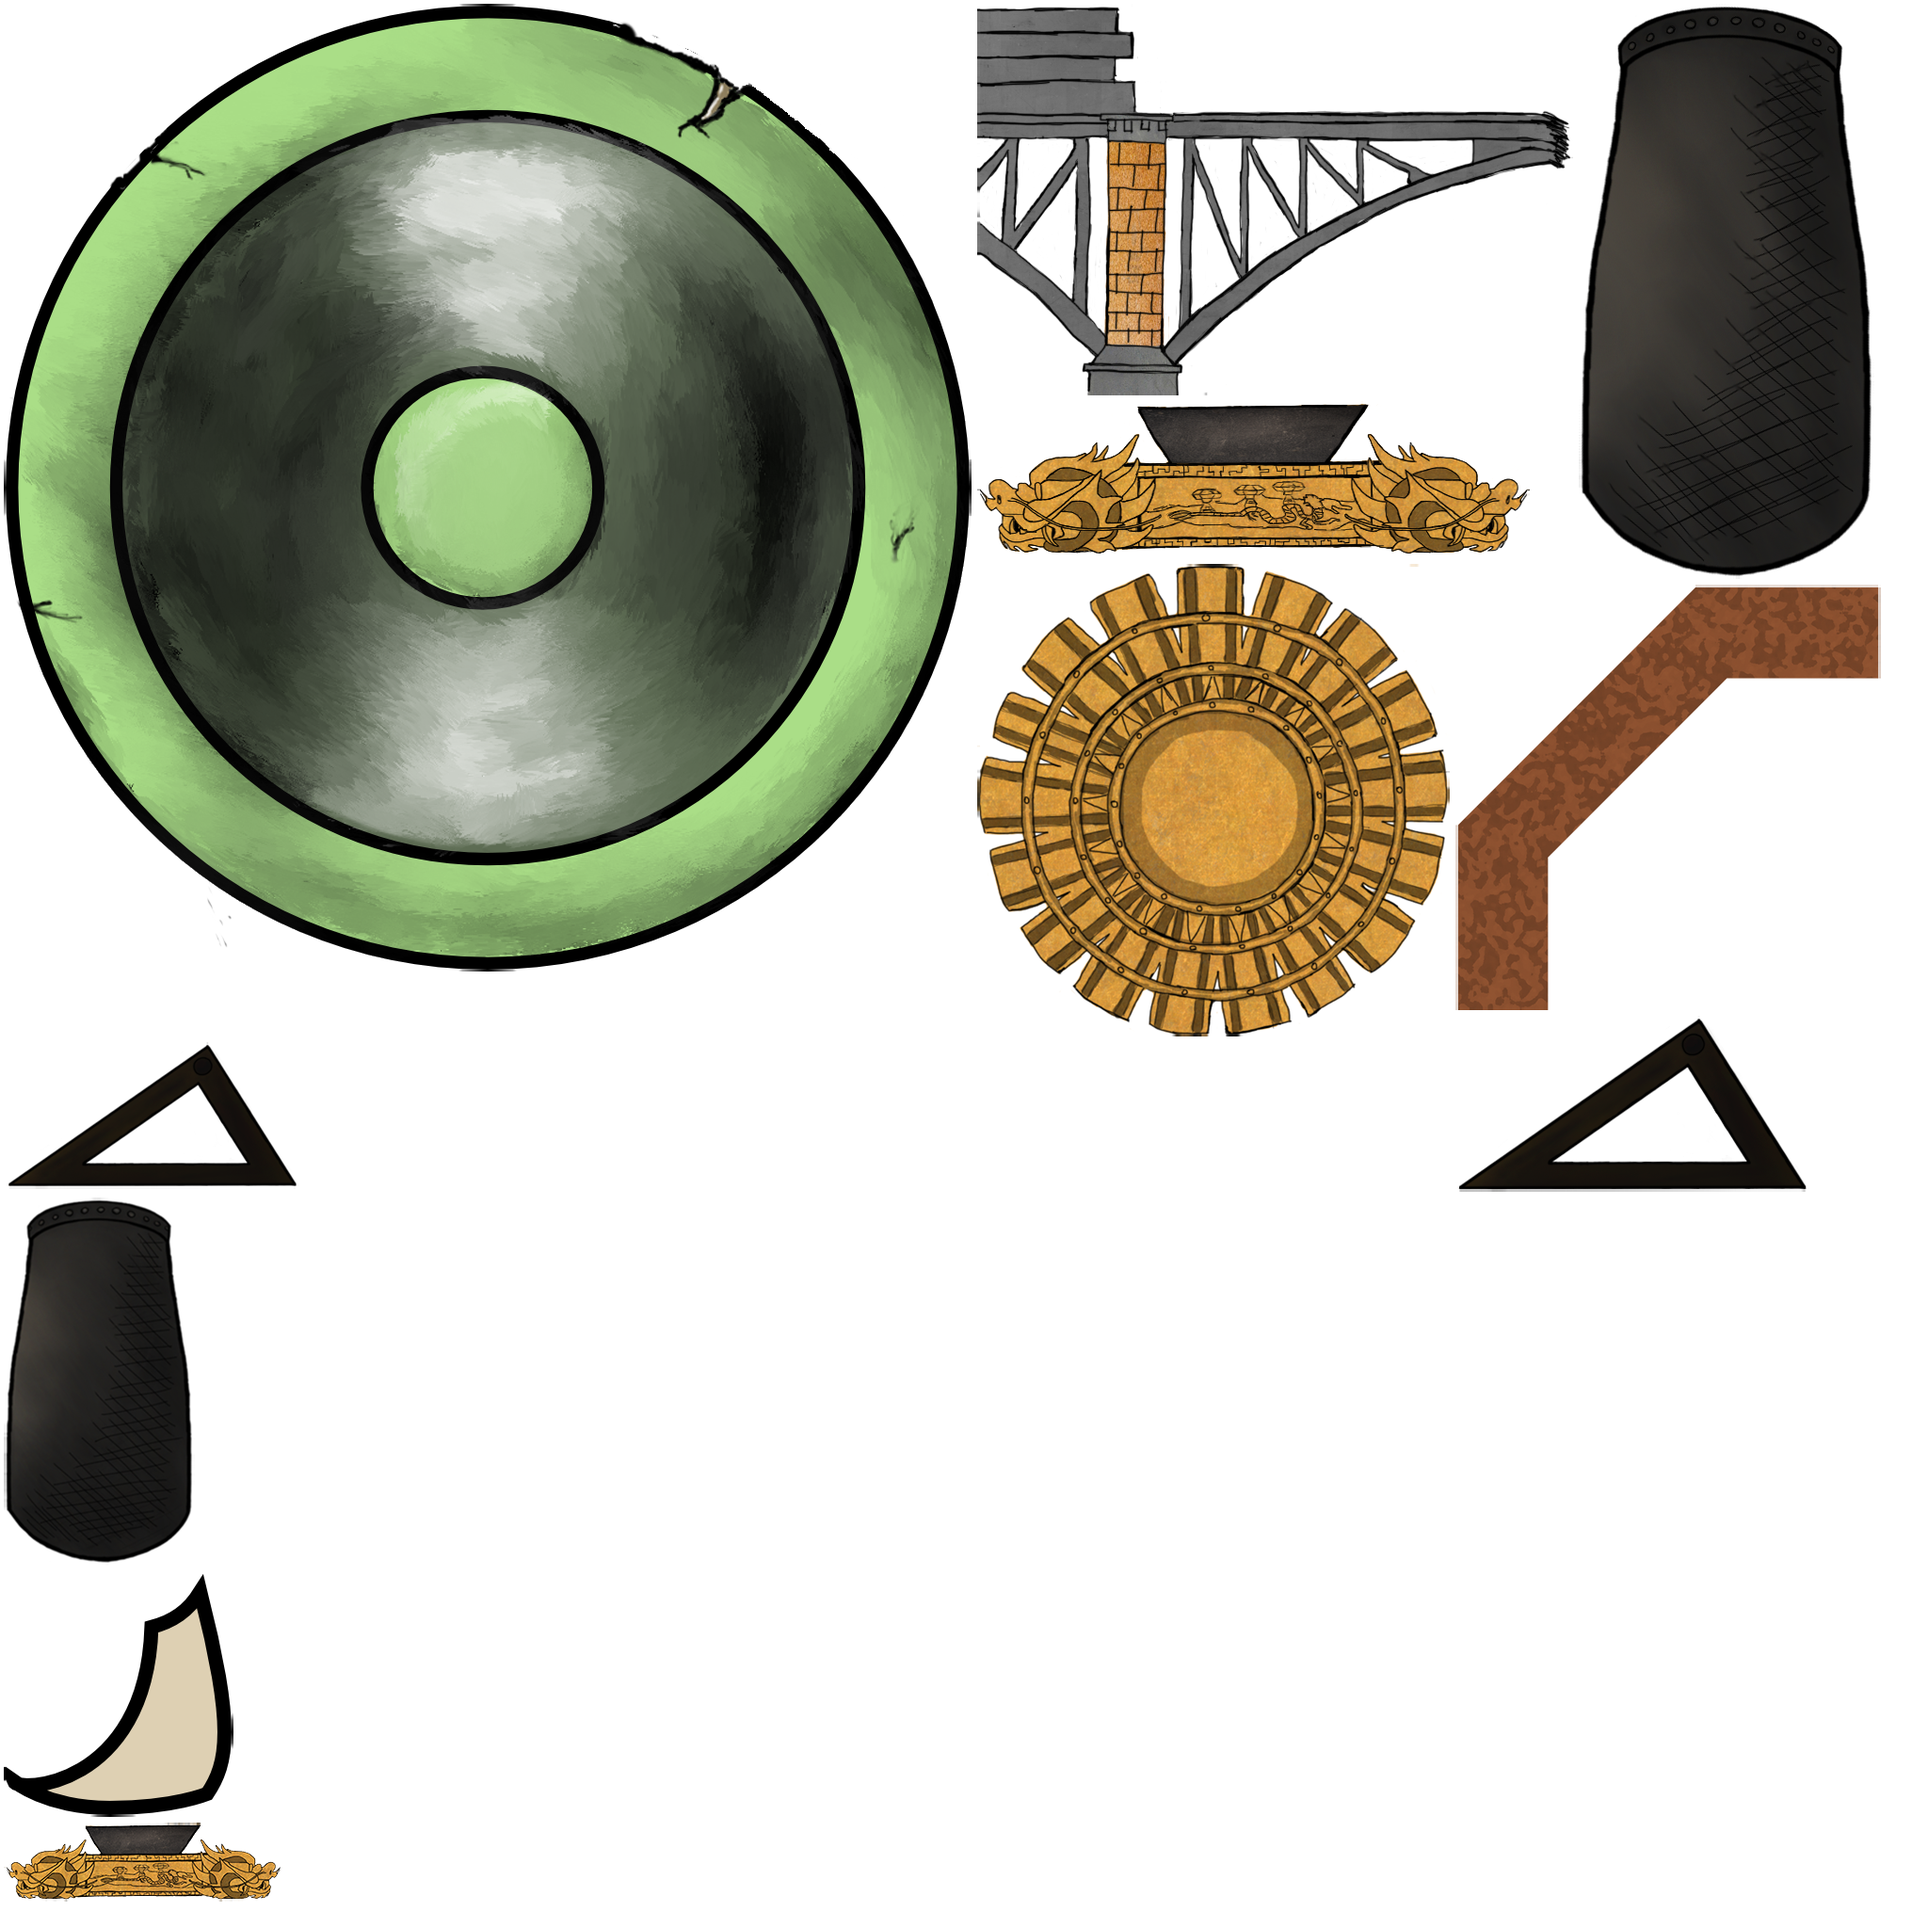
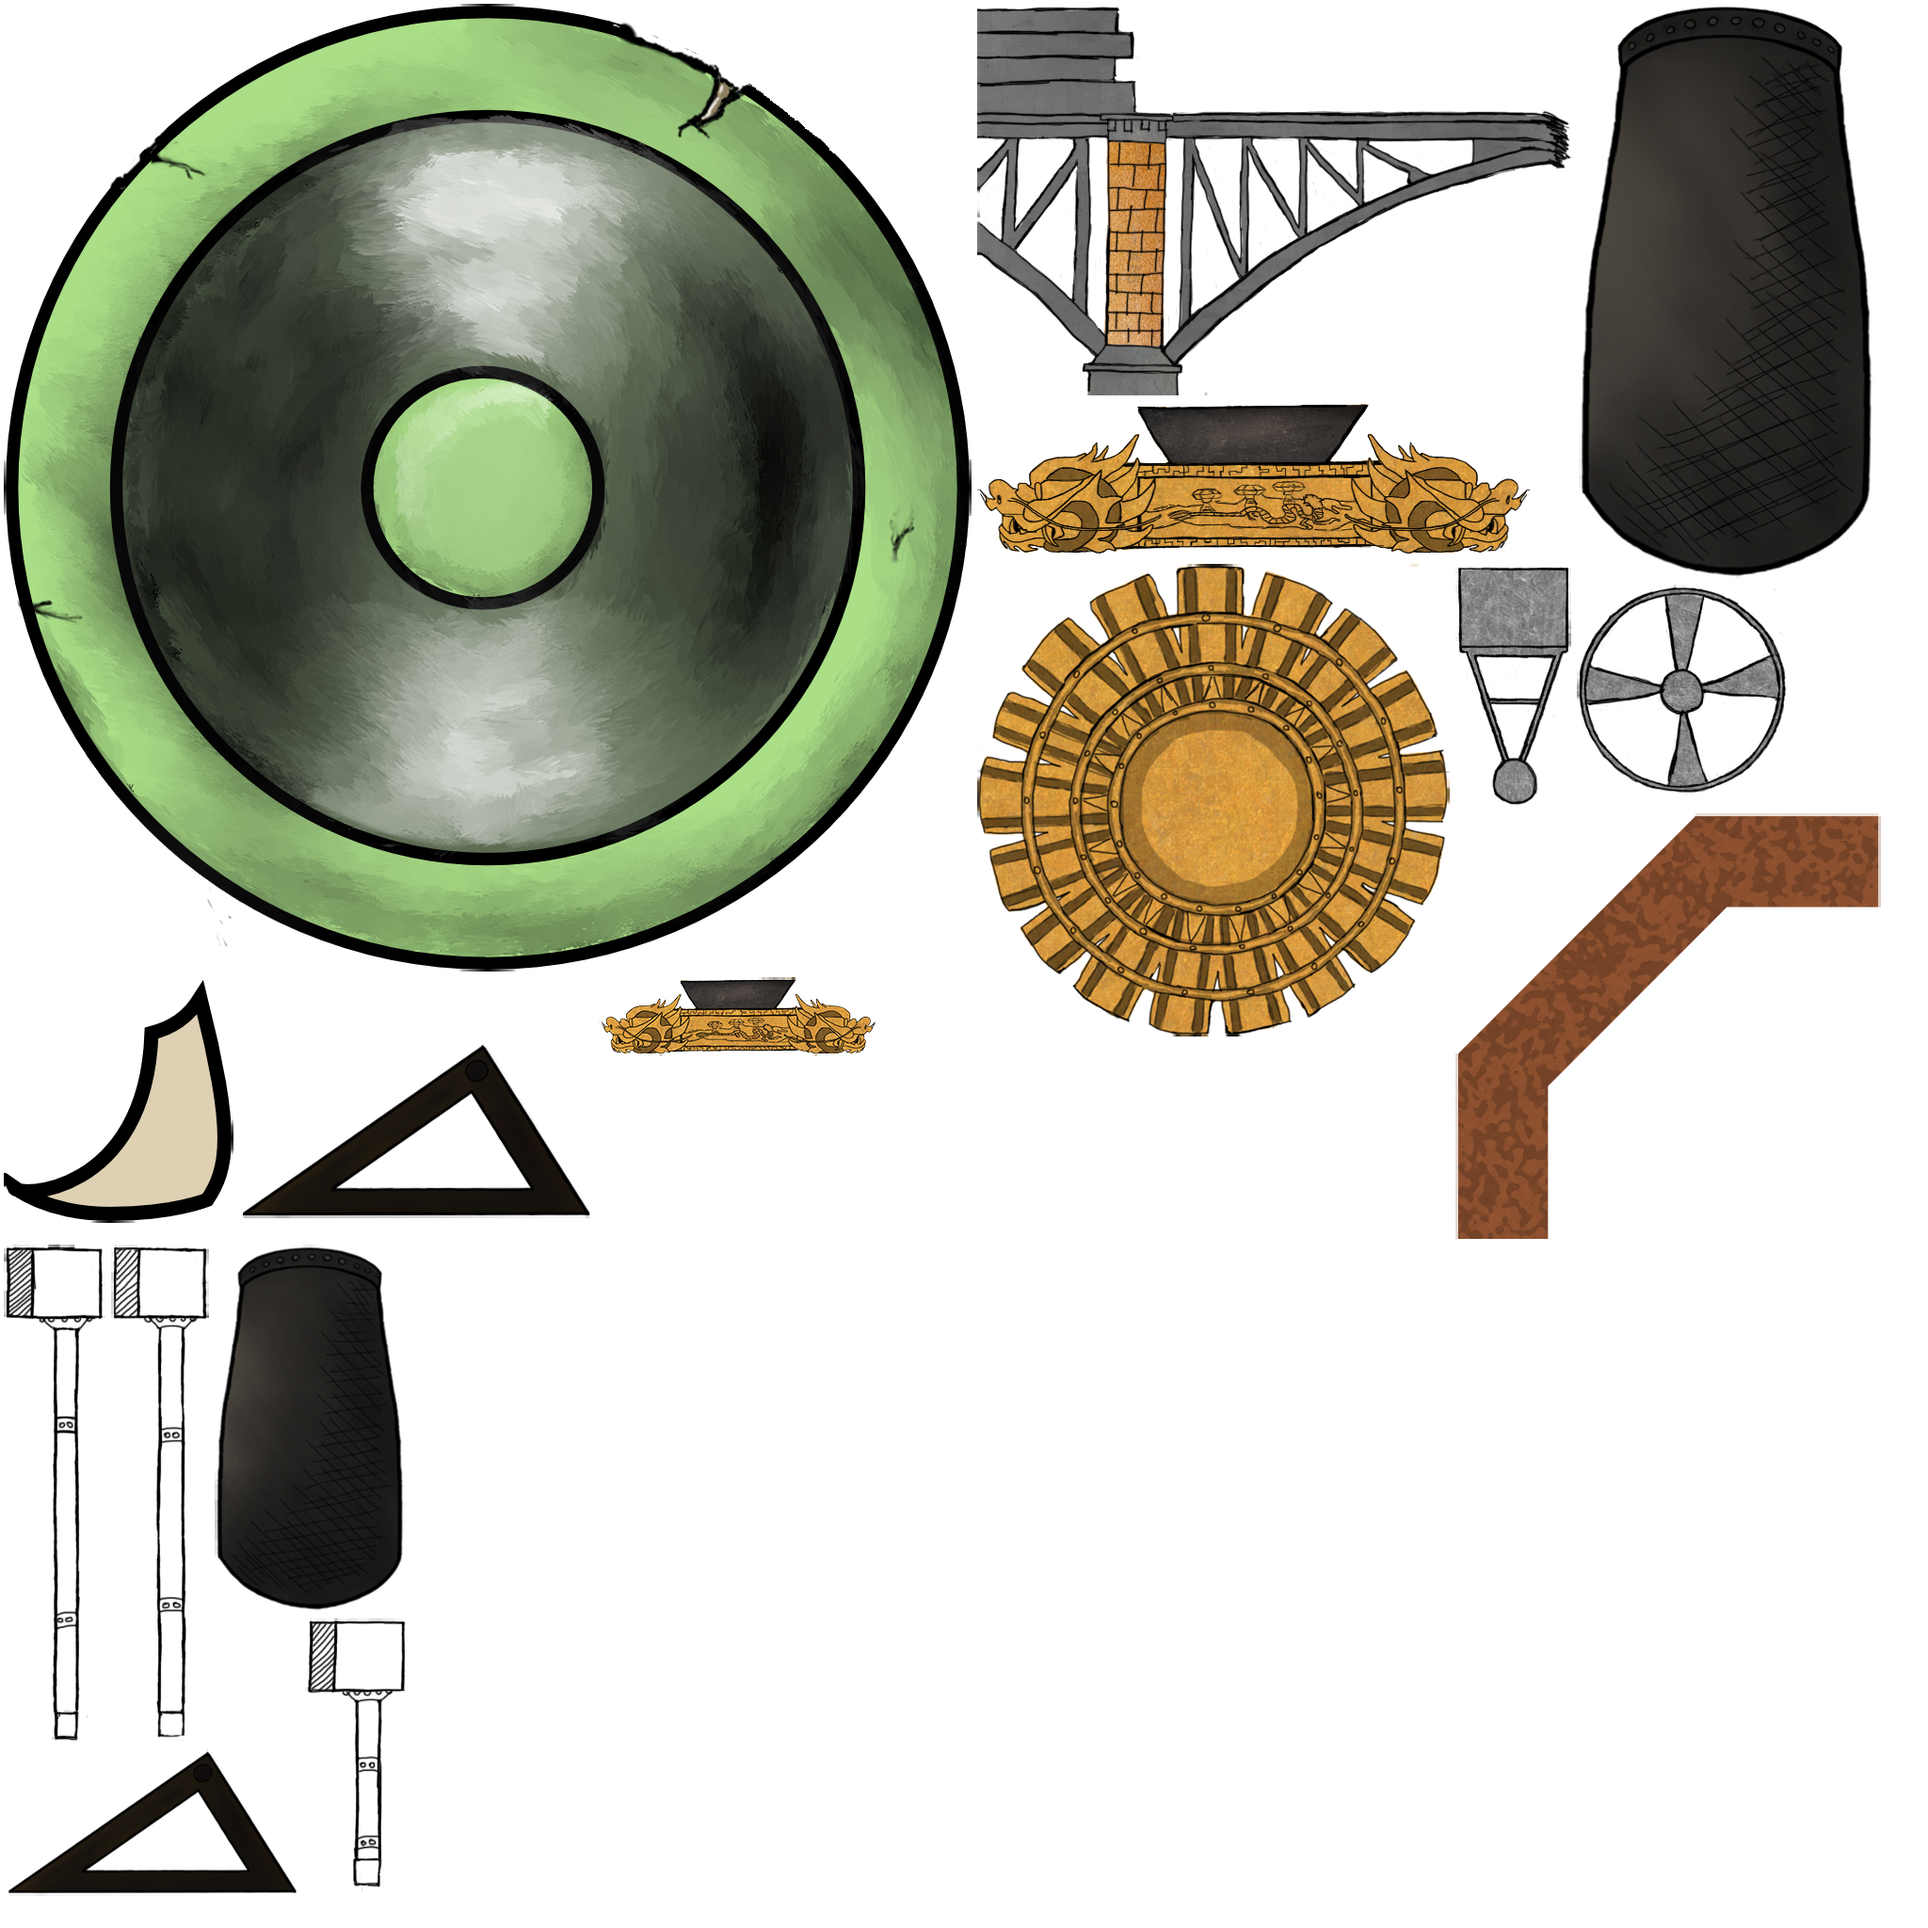
screw machine art in. About to optimize all texture atlas packs

Changed region(s): [[0.0, 0.5, 0.3125, 1.0], [0.75, 0.2812, 1.0, 0.6562], [0.3125, 0.5, 0.4688, 0.5625]]

diff --git a/werescrewed/src/com/blindtigergames/werescrewed/screens/DragonScreen.java b/werescrewed/src/com/blindtigergames/werescrewed/screens/DragonScreen.java
@@ -652,6 +652,7 @@ public class DragonScreen extends Screen {
 		bodyRoomRotateSkeleton.addFGDecal( 
 				Sprite.scale(dragon_objects.createSprite( "turbine-outside" ),2), 
 				new Vector2(-1012,100) );
+		bodyRoomRotateSkeleton.sprite=null;
 		//bottom left
 		bodyRoomRotateSkeleton.addFGDecal( 
 				Sprite.scale(dragon_objects.createSprite( "turbine-outside" ),2,-2),
@@ -1082,6 +1083,7 @@ public class DragonScreen extends Screen {
 		TextureAtlas tailAtlas = WereScrewedGame.manager.getAtlas( "body-neck" );
 		TextureAtlas interiorLeftAtlas = WereScrewedGame.manager.getAtlas( "interior_tail3_bodyleft" );
 		TextureAtlas interiorRightAtlas = WereScrewedGame.manager.getAtlas( "interior_tail2_bodyright" );
+		TextureAtlas dragon_objects = WereScrewedGame.manager.getAtlas( "dragon_objects" );
 		
 		//neck
 		neck_skeleton.addFGDecal( Sprite.scale( tailAtlas.createSprite( "neck" ), 2f), new Vector2(-1167,-914) );//4,414
@@ -1103,6 +1105,22 @@ public class DragonScreen extends Screen {
 		bodySkeleton.addBGDecal( Sprite.scale(interiorRightAtlas.createSprite( "body_interior_right" ), 2), interiorPos.cpy().add(4074,0) );
 		bodySkeleton.bgSprite=null;
 		addBGSkeleton( bodySkeleton );
+		
+		//rotation puzzle machine decals
+		Entity screw = LevelFactory.entities.get("body_rotate_puzzle_screw1");
+		Sprite s = dragon_objects.createSprite("rotation_machine_wheel");
+		screw.addBGDecal( s, new Vector2(-s.getWidth( )/2,-s.getHeight( )/2) );
+		addBGEntity( screw );
+		
+		Skeleton rotateScrewSkeleton = ( Skeleton ) LevelFactory.entities
+				.get( "body_inside_rotatepuzzle_skeleton" );
+		s = dragon_objects.createSprite("rotation_machine_rotate_plate");//rotation_machine_wheel
+		s.setScale( 1, 1.37f );
+		rotateScrewSkeleton.addBGDecal( s, new Vector2(-s.getWidth( )/2,-30) );//-s.getHeight( )/2
+		addBGEntity( rotateScrewSkeleton );
+		
+		
+		
 	}
 	
 	void neckDecal(){
